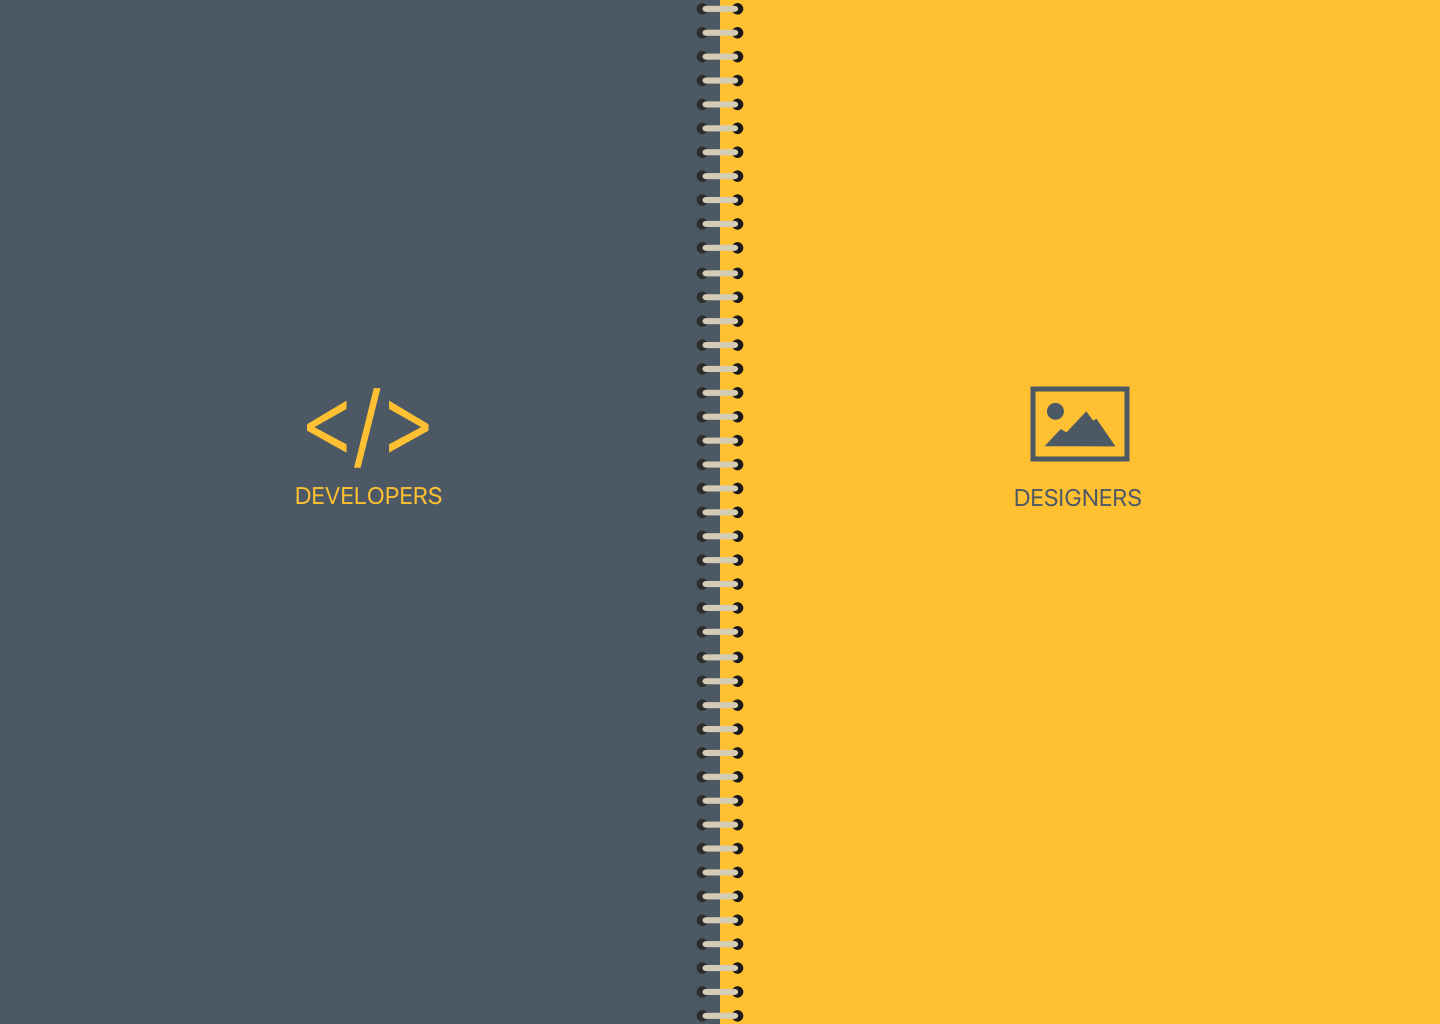
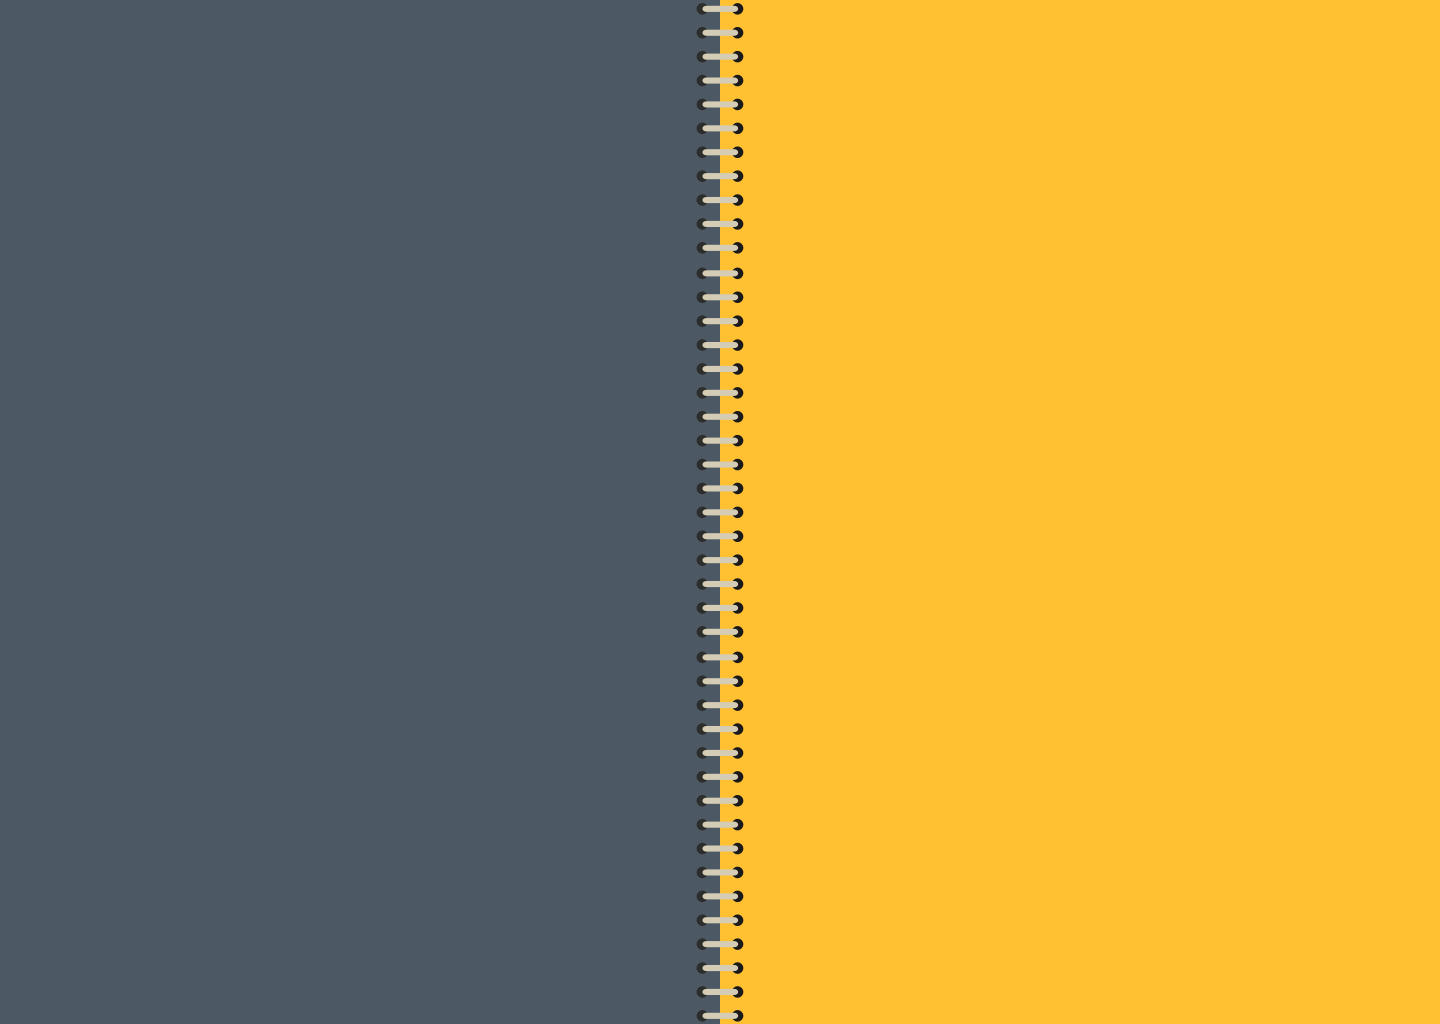
updated home page to match sketch

Changed region(s): [[0.6875, 0.375, 0.8125, 0.5], [0.2188, 0.375, 0.3125, 0.4375], [0.1875, 0.4688, 0.3125, 0.5]]

diff --git a/public/app/views/home.html b/public/app/views/home.html
@@ -1,10 +1,15 @@
+<div class="homeLogo"></div>
 <div class="" id="home">
     <div class="row">
-        <div class="col-xs-6" id="dev">
+        <div class="col-xs-6 homeGroup">
+            <img ng-src="../../img/devlogo.png" class="homeDev">
+            <p class="text-center home-dev">DEVELOPERS</p>
             <a href="/signup" class="text-center btn btn-danger">Sign up</a>
             <a href="/login" class="text-center btn btn-danger">Log In</a>
         </div>
-        <div class="col-xs-6" id="des">
+        <div class="col-xs-6 homeGroup">
+             <img ng-src="../../img/deslogo.png" class="homeDev">
+            <p class="text-center home-des">DESINGERS</p>
             <a href="/signup" class="text-center btn btn-primary">Sign up</a>
             <a href="/login" class="text-center btn btn-primary">Log In</a>
         </div>

diff --git a/public/css/styles.css b/public/css/styles.css
@@ -20,6 +20,7 @@ h1, h2, h3, h4, p, li, a {
     margin-top: 15vh;
 }
 
+
 legend {
     height: 80px;
     padding-top: 20px;
@@ -50,6 +51,7 @@ legend {
     padding-top: 10px;
     padding-bottom: 10px;
 }
+
 
 .form-control {
     height: 50px;
@@ -104,14 +106,37 @@ legend {
     height: 100px;
 }
 
+.homeLogo {
+    width: 564px;
+    height: 127px;
+    position: absolute;
+    margin-left: -150px;
+    margin-top: 15px;
+    background: url("../img/Logo.png") no-repeat center;
+}
+
 .navbar {
     background-color: white;
 }
 
-#dev {
+.homeGroup {
     text-align: center;
-    margin-top: 52vh;
-    
+    margin-top: 40vh;
+}
+
+.home-dev {
+    color: #FFC031;
+    margin-top: 10px;
+}
+
+.home-des {
+    color: #4C5964;
+    margin-top: 10px;
+}
+
+.homeGroup img {
+    display: block;
+    margin: 0 auto;
 }
 
 #des {
